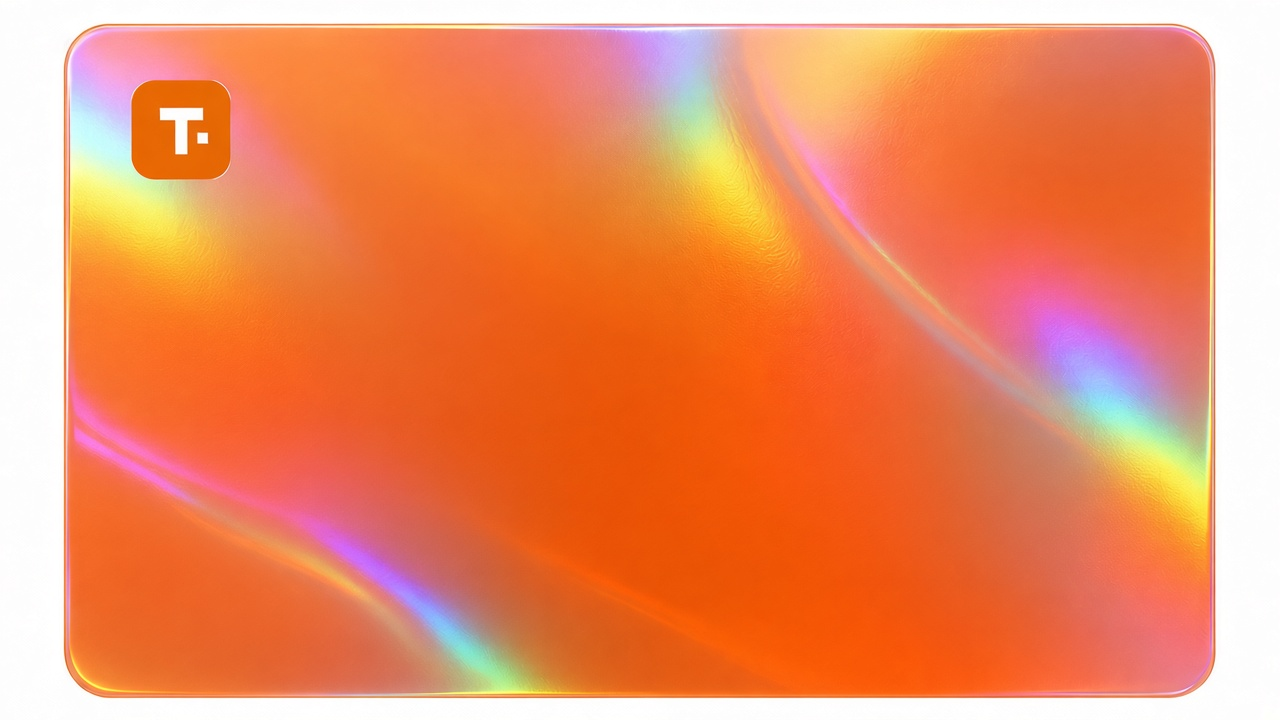
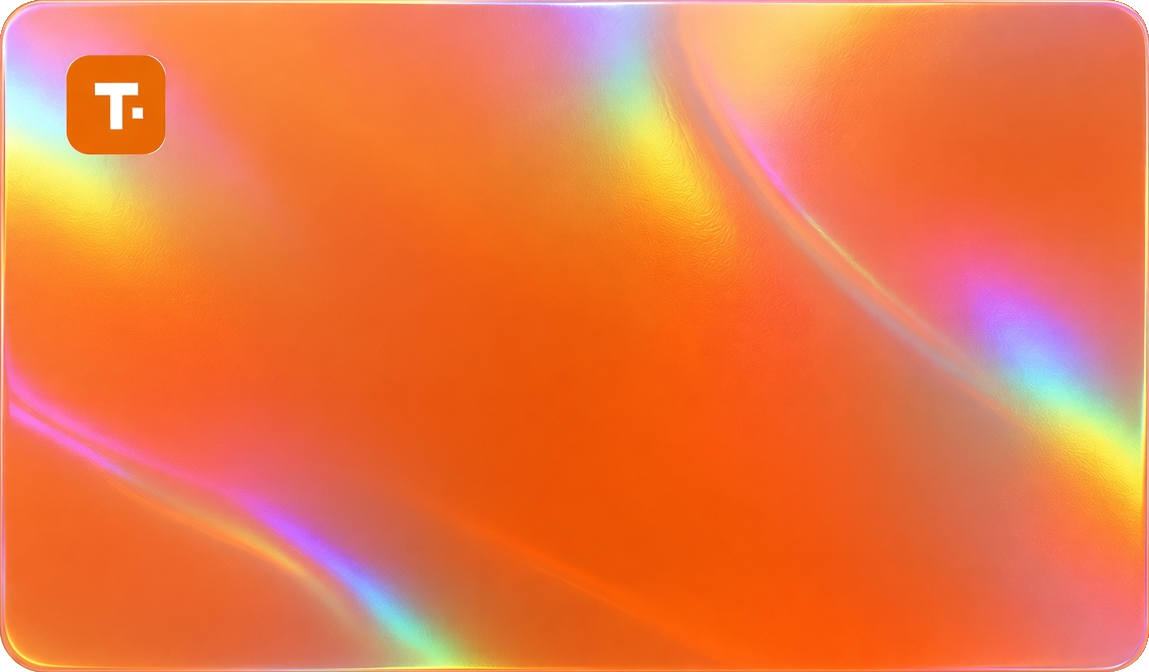
Remove white border from card

diff --git a/make.html b/make.html
@@ -17,7 +17,7 @@ button.ghost{background:#fff;color:#f26a1b;border:1px solid #f26a1b}
 button:disabled{opacity:.55;cursor:wait}
 .out{display:flex;gap:8px;flex-wrap:wrap;align-items:center;margin:10px 0 16px}
 .out input{flex:1;min-width:260px}
-canvas{width:100%;max-width:960px;border-radius:14px;box-shadow:0 10px 30px rgba(0,0,0,.12);display:block;background:#111}
+canvas{width:100%;max-width:960px;border-radius:14px;box-shadow:0 10px 30px rgba(0,0,0,.12);display:block;background:transparent}
 .tip{font-size:12px;color:#888;margin-top:12px;line-height:1.6}
 #gifProg{font-size:12px;color:#f26a1b;min-height:1.2em;margin:4px 0 0}
 </style>
@@ -36,7 +36,7 @@ canvas{width:100%;max-width:960px;border-radius:14px;box-shadow:0 10px 30px rgba
 </div>
 <div class="out"><input id="url" readonly placeholder="生成后的客户链接"><button id="copy" class="ghost">复制链接</button><a id="open" href="#" target="_blank" rel="noopener">打开预览</a></div>
 <p id="gifProg"></p>
-<canvas id="cv" width="2560" height="1440"></canvas>
+<canvas id="cv" width="2298" height="1344"></canvas>
 <p class="tip">邮件：点「复制邮件卡片」→ 写信窗口 Ctrl+V。若企微邮箱把链接剥掉，改用「下载 PNG」+「复制链接」，插图后选中图片加超链接。<br>聊天软件（TG / 微信 / Discord 等）：点「下载动图」发 GIF 好看，但动图本身不能跳转，必须再发一行兑换链接；或发 PNG + 链接。<br>链接格式：站点首页 + <code>#n=名字&amp;c=兑换码&amp;a=金额</code>。兑换码只在链接里，不会写进仓库。</p>
 </div>
 <script>
@@ -63,18 +63,21 @@ function rr(X,Y,W,H,R){x.beginPath();x.moveTo(X+R,Y);x.arcTo(X+W,Y,X+W,Y+H,R);x.
 function draw(){
  if(!ready)return;
  const name=$('name').value||'',code=($('code').value||'').trim(),amount=$('amount').value||'$5';
- x.setTransform(S,0,0,S,0,0);x.clearRect(0,0,1280,720);x.drawImage(bg,0,0,1280,720);
- emb('GIFT CARD',1192,92,'520 19px GI',{align:'right',ls:'9.5px',alpha:.95});
- const w=emb(amount,118,282,'800 88px GT',{big:true,ls:'-3.5px'});
- emb('Test Credits',118+w+18,282,'580 38px GI',{ls:'-0.76px',alpha:.96});
- emb('For '+(name||'you')+' · ToAPIs unified AI API',118,348,'450 21px GI',{alpha:.92});
- x.save();x.shadowColor='rgba(80,20,0,.14)';x.shadowBlur=18;x.shadowOffsetY=6;rr(118,440,1044,92,18);
- const g=x.createLinearGradient(0,440,0,532);g.addColorStop(0,'#fff');g.addColorStop(1,'#faf3ed');x.fillStyle=g;x.fill();x.restore();
+ x.setTransform(S,0,0,S,0,0);x.clearRect(0,0,1149,672);
+ x.save();rr(0,0,1149,672,40);x.clip();
+ x.drawImage(bg,0,0,1149,672);
+ emb('GIFT CARD',1127,67,'520 19px GI',{align:'right',ls:'9.5px',alpha:.95});
+ const w=emb(amount,53,257,'800 88px GT',{big:true,ls:'-3.5px'});
+ emb('Test Credits',53+w+18,257,'580 38px GI',{ls:'-0.76px',alpha:.96});
+ emb('For '+(name||'you')+' · ToAPIs unified AI API',53,323,'450 21px GI',{alpha:.92});
+ x.save();x.shadowColor='rgba(80,20,0,.14)';x.shadowBlur=18;x.shadowOffsetY=6;rr(53,415,1044,92,18);
+ const g=x.createLinearGradient(0,415,0,507);g.addColorStop(0,'#fff');g.addColorStop(1,'#faf3ed');x.fillStyle=g;x.fill();x.restore();
  x.font='520 27px GJ';try{x.letterSpacing='2.7px'}catch(e){}
  x.textAlign='center';x.textBaseline='middle';
- x.save();x.fillStyle='rgba(255,255,255,.85)';x.fillText(code||'••••',640,487.5);x.fillStyle='#4a2a14';x.fillText(code||'••••',640,487);x.restore();
+ x.save();x.fillStyle='rgba(255,255,255,.85)';x.fillText(code||'••••',575,462.5);x.fillStyle='#4a2a14';x.fillText(code||'••••',575,462);x.restore();
  x.textAlign='left';x.textBaseline='alphabetic';
- emb('Tap card to copy code & open redeem',118,652,'450 17px GI',{alpha:.9});
+ emb('Tap card to copy code & open redeem',53,627,'450 17px GI',{alpha:.9});
+ x.restore();
 }
 function refresh(){const u=buildUrl();$('url').value=u;$('open').href=u;draw()}
 function canvasPngBlob(){return new Promise(r=>cv.toBlob(r,'image/png'))}
@@ -92,7 +95,7 @@ $('mail').onclick=async()=>{
     if(!blob)throw new Error('png');
     const dataUrl=await blobToDataUrl(blob);
     const u=$('url').value;
-    const html='<a href="'+u.replace(/"/g,'&quot;')+'" target="_blank" rel="noopener"><img src="'+dataUrl+'" width="640" height="360" alt="ToAPIs Gift Card" style="border:0;display:block;max-width:100%;height:auto;" /></a>';
+    const html='<a href="'+u.replace(/"/g,'&quot;')+'" target="_blank" rel="noopener"><img src="'+dataUrl+'" width="640" height="374" alt="ToAPIs Gift Card" style="border:0;display:block;max-width:100%;height:auto;" /></a>';
     const plain='ToAPIs Gift Card\n'+u;
     if(window.ClipboardItem&&navigator.clipboard&&navigator.clipboard.write){
       await navigator.clipboard.write([new ClipboardItem({
@@ -155,7 +158,7 @@ function renderAnimFrame(out, face, t, spr, dust){
   const amp=13;
   const ry=curX*amp*(Math.PI/180), rx=-curY*amp*.8*(Math.PI/180);
   const floatY=Math.sin(t*Math.PI*2*1.3)*5;
-  const cw=W*0.78, ch=cw*(720/1280);
+  const cw=W*0.78, ch=cw*(672/1149);
   const cx=W/2, cy=H/2+floatY*0.4;
   // glow under card
   ctx.save();
@@ -250,8 +253,8 @@ $('gif').onclick=async()=>{
   $('gifProg').textContent='准备动图…';
   try{
     // snapshot face at 1x logical for cleaner GIF (use half of hi-dpi canvas)
-    const face=document.createElement('canvas');face.width=1280;face.height=720;
-    face.getContext('2d').drawImage(cv,0,0,1280,720);
+    const face=document.createElement('canvas');face.width=1149;face.height=672;
+    face.getContext('2d').drawImage(cv,0,0,1149,672);
     const blob=await encodeGifFromFace(face);
     const a=document.createElement('a');
     a.href=URL.createObjectURL(blob);

diff --git a/index.html b/index.html
@@ -21,7 +21,7 @@ body{margin:0;min-height:100vh;min-height:100dvh;display:flex;flex-direction:col
 .stage:focus-visible{outline:2px solid #ffb27a;outline-offset:6px}
 .glow{position:absolute;inset:-12% -9%;border-radius:8%;background:radial-gradient(closest-side,rgba(242,106,27,.7),rgba(242,106,27,.32) 45%,rgba(242,106,27,.1) 75%,transparent);transform:translateZ(-60px);opacity:.55;will-change:opacity,transform;pointer-events:none}
 .face{position:absolute;inset:0;border-radius:3.5%/6%;overflow:hidden;transform:translateZ(0);box-shadow:0 30px 60px -10px rgba(0,0,0,.65),0 0 0 1px rgba(255,210,170,.25) inset}
-.face canvas{position:absolute;left:-5.657%;top:-3.720%;width:111.401%;height:107.143%;display:block;pointer-events:none}
+.face canvas{position:absolute;inset:0;width:100%;height:100%;display:block;pointer-events:none}
 .layer{position:absolute;inset:0;pointer-events:none;border-radius:inherit}
 .foil{background:repeating-linear-gradient(115deg,rgba(255,80,40,0) 0%,rgba(255,200,120,.55) 6%,rgba(255,120,220,.45) 12%,rgba(120,220,255,.45) 18%,rgba(255,240,170,.55) 24%,rgba(255,80,40,0) 32%);background-size:300% 300%;background-position:var(--fx,50%) var(--fy,50%);mix-blend-mode:color-dodge;opacity:var(--fo,.08)}
 .sweep{background:linear-gradient(105deg,transparent 35%,rgba(255,255,255,.0) 40%,rgba(255,255,255,.55) 48%,rgba(255,236,210,.85) 50%,rgba(255,255,255,.55) 52%,rgba(255,255,255,0) 60%,transparent 65%);background-size:250% 100%;background-repeat:no-repeat;background-position:var(--sw,-150%) 0;mix-blend-mode:overlay}
@@ -70,7 +70,7 @@ const $=id=>document.getElementById(id);
 const card=$('card'),face=$('face'),glow=$('glow'),flash=$('flash'),reflect=$('reflect'),scene=$('scene');
 
 /* ---------- card face: rendered once to a canvas (same layout as before) ---------- */
-const S=2,W=1280,H=720;
+const S=2,W=1149,H=672;
 const cv=document.createElement('canvas');cv.width=W*S;cv.height=H*S;
 face.insertBefore(cv,face.firstChild);
 const x=cv.getContext('2d');
@@ -86,18 +86,21 @@ function emb(t,px,py,font,opts={}){
 }
 function rr(X,Y,WW,HH,R){x.beginPath();x.moveTo(X+R,Y);x.arcTo(X+WW,Y,X+WW,Y+HH,R);x.arcTo(X+WW,Y+HH,X,Y+HH,R);x.arcTo(X,Y+HH,X,Y,R);x.arcTo(X,Y,X+WW,Y,R);x.closePath()}
 function draw(){
- x.setTransform(S,0,0,S,0,0);x.clearRect(0,0,W,H);x.drawImage(bg,0,0,W,H);
- emb('GIFT CARD',1192,92,'520 19px GI',{align:'right',ls:'9.5px',alpha:.95});
- const w=emb(amount,118,282,'800 88px GT',{big:true,ls:'-3.5px'});
- emb('Test Credits',118+w+18,282,'580 38px GI',{ls:'-0.76px',alpha:.96});
- emb('For '+(name||'you')+' · ToAPIs unified AI API',118,348,'450 21px GI',{alpha:.92});
- x.save();x.shadowColor='rgba(80,20,0,.14)';x.shadowBlur=18;x.shadowOffsetY=6;rr(118,440,1044,92,18);
- const g=x.createLinearGradient(0,440,0,532);g.addColorStop(0,'#fff');g.addColorStop(1,'#faf3ed');x.fillStyle=g;x.fill();x.restore();
+ x.setTransform(S,0,0,S,0,0);x.clearRect(0,0,W,H);
+ x.save();rr(0,0,W,H,Math.round(W*0.035));x.clip();
+ x.drawImage(bg,0,0,W,H);
+ emb('GIFT CARD',1127,67,'520 19px GI',{align:'right',ls:'9.5px',alpha:.95});
+ const w=emb(amount,53,257,'800 88px GT',{big:true,ls:'-3.5px'});
+ emb('Test Credits',53+w+18,257,'580 38px GI',{ls:'-0.76px',alpha:.96});
+ emb('For '+(name||'you')+' · ToAPIs unified AI API',53,323,'450 21px GI',{alpha:.92});
+ x.save();x.shadowColor='rgba(80,20,0,.14)';x.shadowBlur=18;x.shadowOffsetY=6;rr(53,415,1044,92,18);
+ const g=x.createLinearGradient(0,415,0,507);g.addColorStop(0,'#fff');g.addColorStop(1,'#faf3ed');x.fillStyle=g;x.fill();x.restore();
  x.font='520 27px GJ';try{x.letterSpacing='2.7px'}catch(e){}
  x.textAlign='center';x.textBaseline='middle';
- x.save();x.fillStyle='rgba(255,255,255,.85)';x.fillText(code||'••••',640,487.5);x.fillStyle='#4a2a14';x.fillText(code||'••••',640,487);x.restore();
+ x.save();x.fillStyle='rgba(255,255,255,.85)';x.fillText(code||'••••',575,462.5);x.fillStyle='#4a2a14';x.fillText(code||'••••',575,462);x.restore();
  x.textAlign='left';x.textBaseline='alphabetic';
- emb('Tap card to copy code & open redeem',118,652,'450 17px GI',{alpha:.9});
+ emb('Tap card to copy code & open redeem',53,627,'450 17px GI',{alpha:.9});
+ x.restore();
 }
 
 /* ---------- clipboard (started synchronously inside the user gesture) ---------- */
